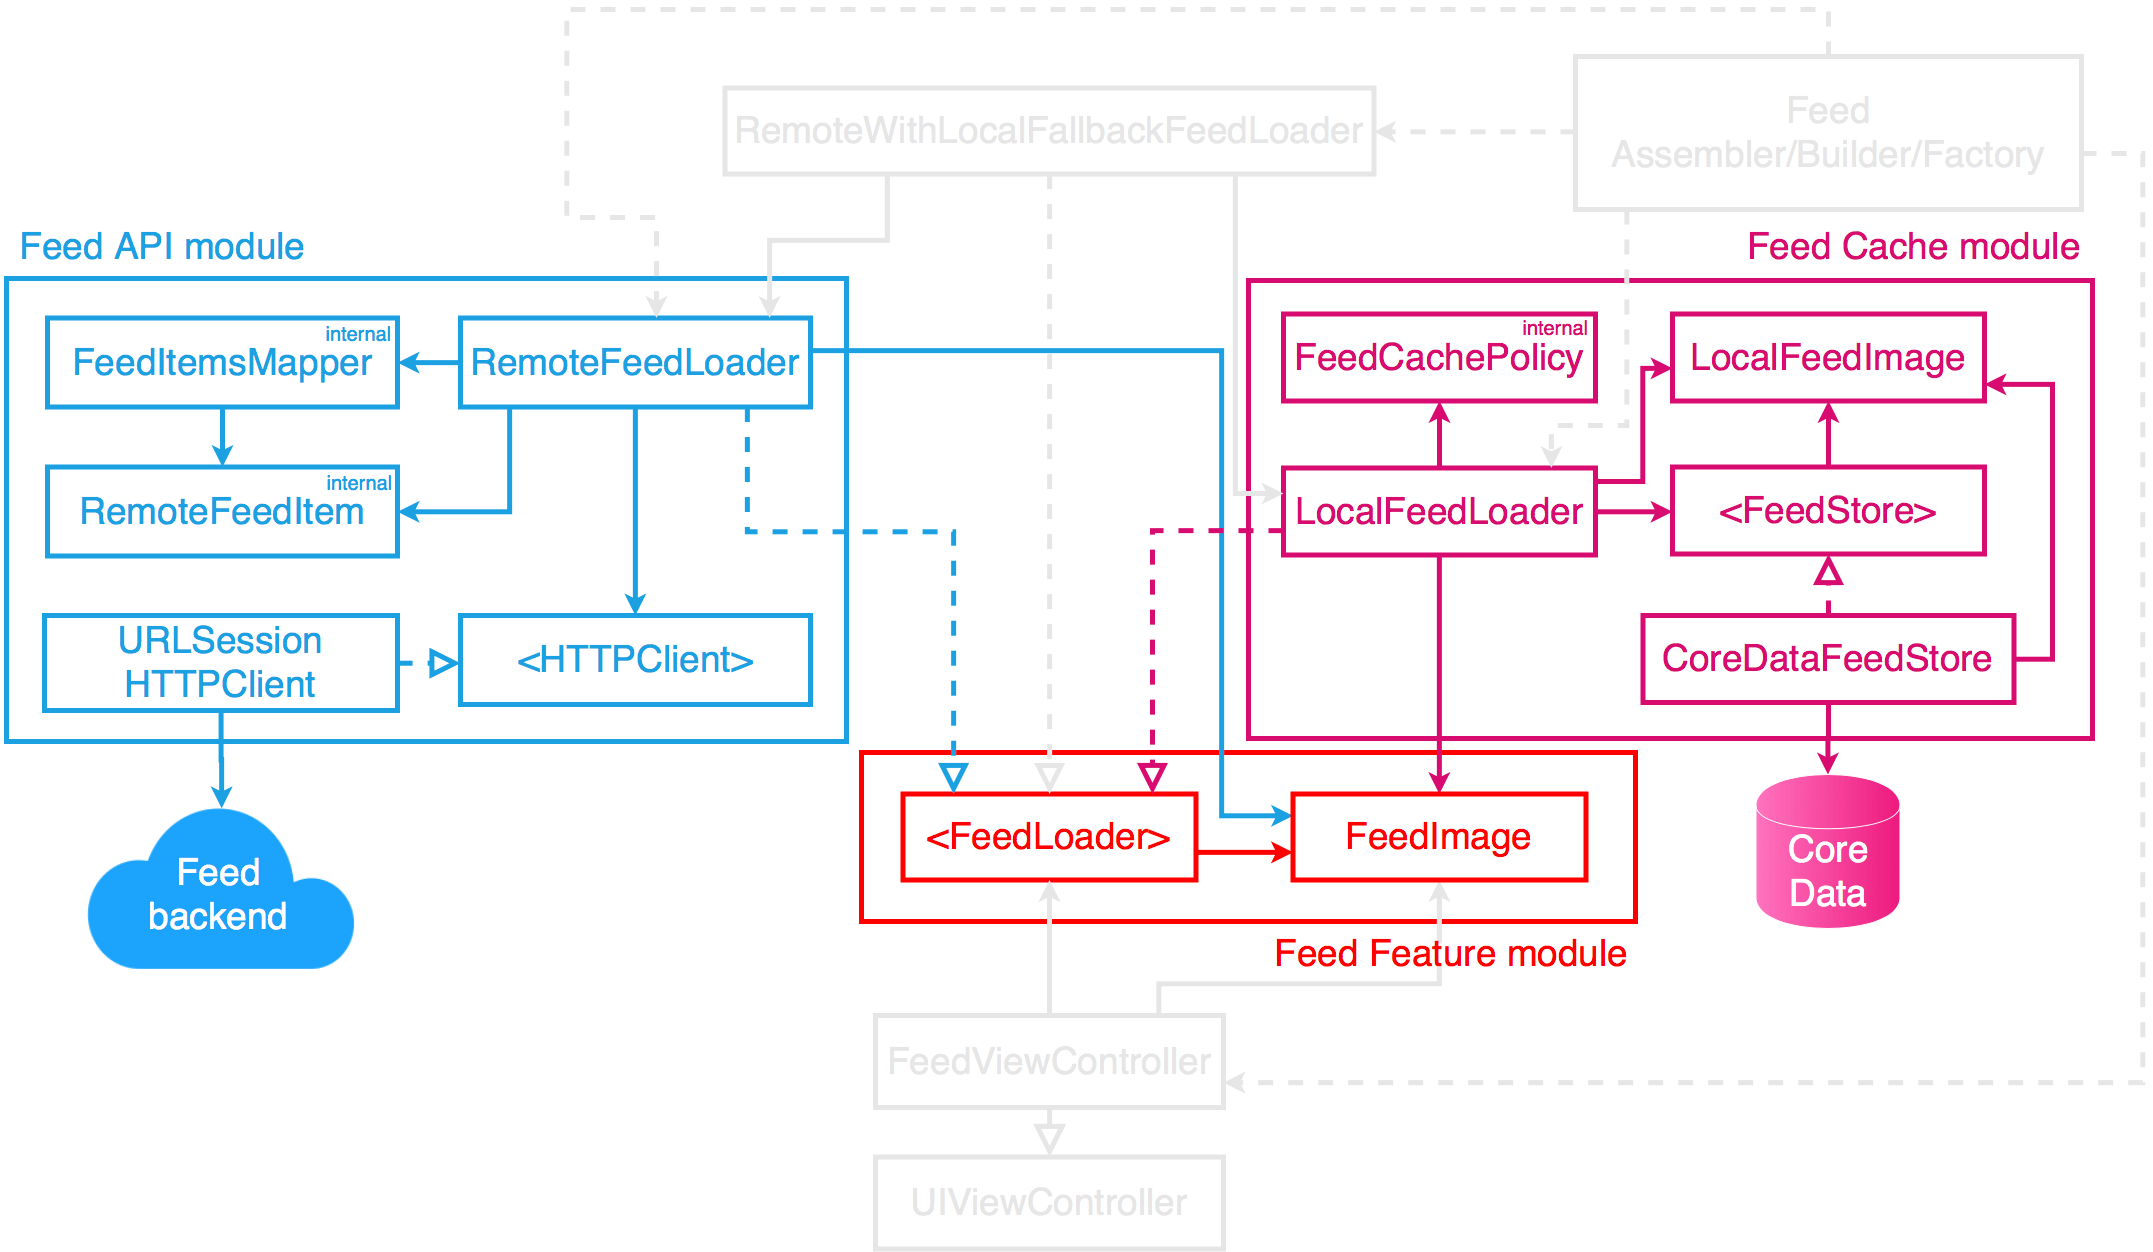
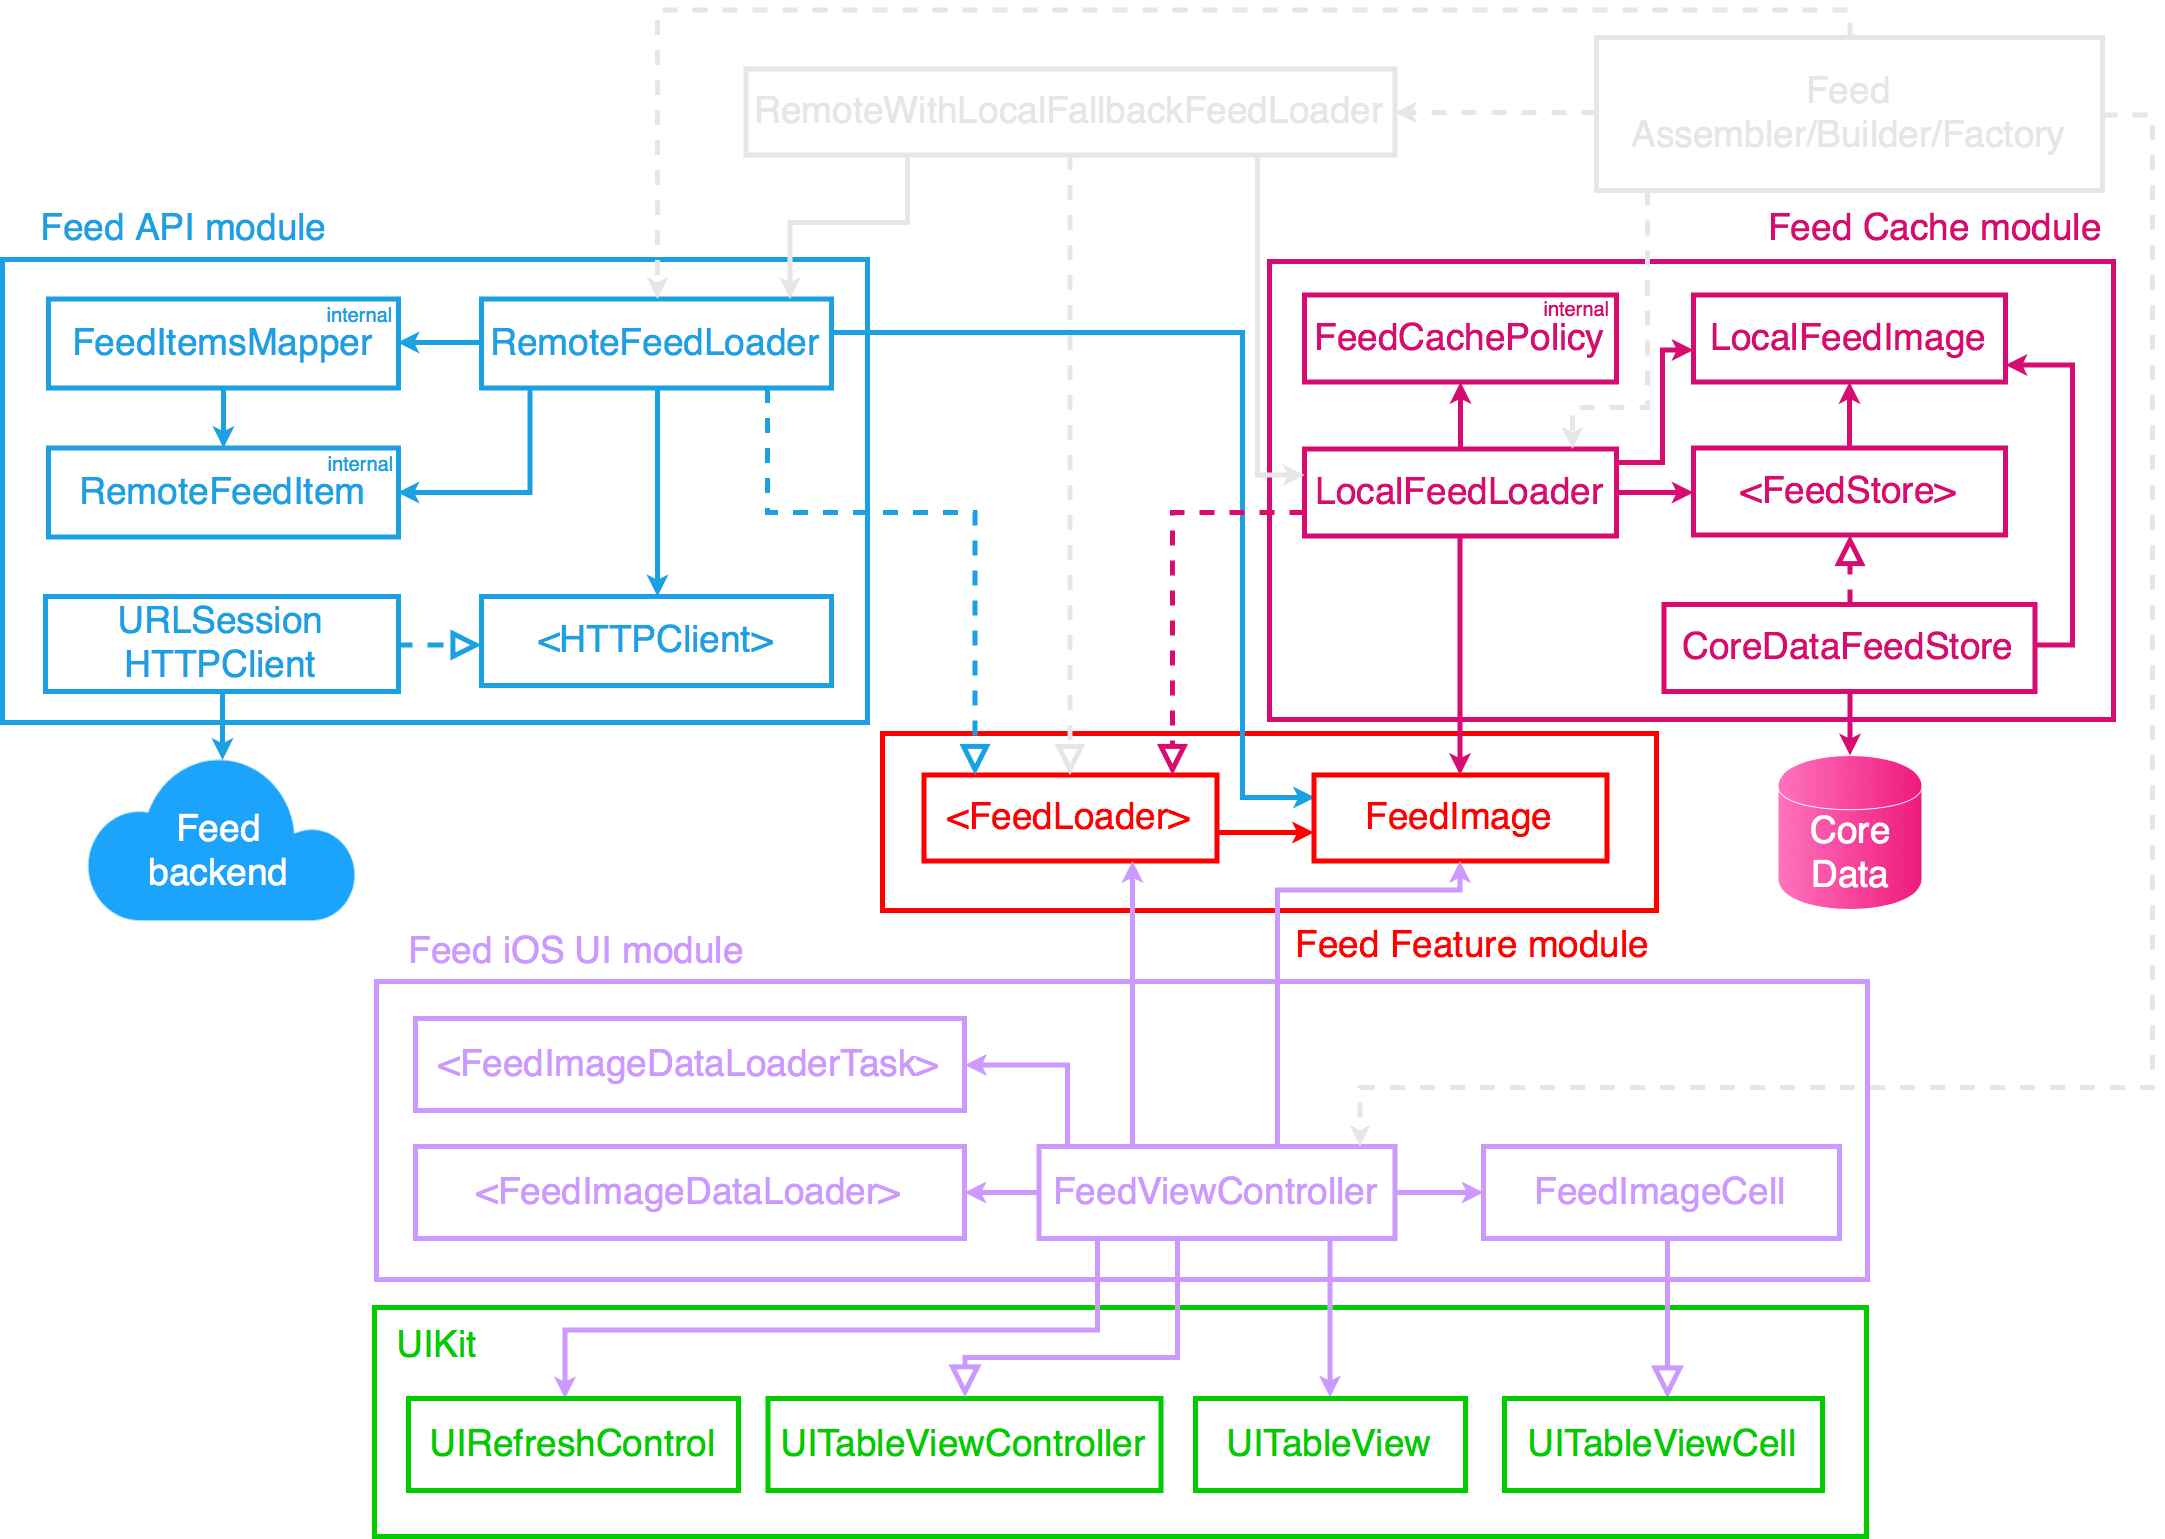
Re-formats code
* Also adds new architecture overview diagram.

Changed region(s): [[0.0, 0.0, 0.9958, 1.0], [0.4668, 0.2492, 0.4979, 0.3115]]

diff --git a/EssentialFeediOSTests/FeedViewControllerTests.swift b/EssentialFeediOSTests/FeedViewControllerTests.swift
@@ -180,95 +180,131 @@ class FeedViewControllerTests: XCTestCase {
         )
         XCTAssertEqual(view1?.renderedImage, imageData1, "Expected image for second view once second image loading completes successfully")
     }
-    
+
     func test_feedImageViewRetryButton_isVisibleOnImageURLLoadError() {
         let (sut, loader) = makeSUT()
-        
+
         sut.loadViewIfNeeded()
         loader.completeFeedLoading(with: [makeImage(), makeImage()])
-        
+
         let view0 = sut.simulateFeedImageViewVisible(at: 0)
         let view1 = sut.simulateFeedImageViewVisible(at: 1)
         XCTAssertEqual(view0?.isShowingRetryAction, false, "Expected no retry action for first view while loading first image")
         XCTAssertEqual(view1?.isShowingRetryAction, false, "Expected no retry action for second view while loading second image")
-        
+
         let imageData = UIImage.make(withColor: .red).pngData()!
         loader.completeImageLoading(with: imageData, at: 0)
-        XCTAssertEqual(view0?.isShowingRetryAction, false, "Expected no retry action for first view once first image loading completes successfully")
-        XCTAssertEqual(view1?.isShowingRetryAction, false, "Expected no retry action state change for second view once first image loading completes successfully")
-        
+        XCTAssertEqual(
+            view0?.isShowingRetryAction,
+            false,
+            "Expected no retry action for first view once first image loading completes successfully"
+        )
+        XCTAssertEqual(
+            view1?.isShowingRetryAction,
+            false,
+            "Expected no retry action state change for second view once first image loading completes successfully"
+        )
+
         loader.completeImageLoadingWithError(at: 1)
-        XCTAssertEqual(view0?.isShowingRetryAction, false, "Expected no retry action state change for first view once second image loading completes with error")
-        XCTAssertEqual(view1?.isShowingRetryAction, true, "Expected retry action for second view once second image loading completes with error")
+        XCTAssertEqual(
+            view0?.isShowingRetryAction,
+            false,
+            "Expected no retry action state change for first view once second image loading completes with error"
+        )
+        XCTAssertEqual(
+            view1?.isShowingRetryAction,
+            true,
+            "Expected retry action for second view once second image loading completes with error"
+        )
     }
-    
+
     func test_feedImageViewRetryButton_isVisibleOnInvalidImageData() {
         let (sut, loader) = makeSUT()
-        
+
         sut.loadViewIfNeeded()
         loader.completeFeedLoading(with: [makeImage()])
-        
+
         let view = sut.simulateFeedImageViewVisible(at: 0)
         XCTAssertEqual(view?.isShowingRetryAction, false, "Expected no retry action while loading image")
-        
+
         let invalidImageData = Data("invalid image data".utf8)
         loader.completeImageLoading(with: invalidImageData, at: 0)
         XCTAssertEqual(view?.isShowingRetryAction, true, "Expected retry action once image loading completes with invalid image data")
     }
-    
+
     func test_feedImageViewRetryAction_retriesImageLoad() {
         let image0 = makeImage(url: URL(string: "http://url-0.com")!)
         let image1 = makeImage(url: URL(string: "http://url-1.com")!)
         let (sut, loader) = makeSUT()
-        
+
         sut.loadViewIfNeeded()
         loader.completeFeedLoading(with: [image0, image1])
-        
+
         let view0 = sut.simulateFeedImageViewVisible(at: 0)
         let view1 = sut.simulateFeedImageViewVisible(at: 1)
         XCTAssertEqual(loader.loadedImageURLs, [image0.url, image1.url], "Expected two image URL request for the two visible views")
-        
+
         loader.completeImageLoadingWithError(at: 0)
         loader.completeImageLoadingWithError(at: 1)
         XCTAssertEqual(loader.loadedImageURLs, [image0.url, image1.url], "Expected only two image URL requests before retry action")
-        
+
         view0?.simulateRetryAction()
-        XCTAssertEqual(loader.loadedImageURLs, [image0.url, image1.url, image0.url], "Expected third imageURL request after first view retry action")
-        
+        XCTAssertEqual(
+            loader.loadedImageURLs,
+            [image0.url, image1.url, image0.url],
+            "Expected third imageURL request after first view retry action"
+        )
+
         view1?.simulateRetryAction()
-        XCTAssertEqual(loader.loadedImageURLs, [image0.url, image1.url, image0.url, image1.url], "Expected fourth imageURL request after second view retry action")
+        XCTAssertEqual(
+            loader.loadedImageURLs,
+            [image0.url, image1.url, image0.url, image1.url],
+            "Expected fourth imageURL request after second view retry action"
+        )
     }
-    
+
     func test_feedImageView_preloadsImageURLWhenNearVisible() {
         let image0 = makeImage(url: URL(string: "http://url-0.com")!)
         let image1 = makeImage(url: URL(string: "http://url-1.com")!)
         let (sut, loader) = makeSUT()
-        
+
         sut.loadViewIfNeeded()
         loader.completeFeedLoading(with: [image0, image1])
         XCTAssertEqual(loader.loadedImageURLs, [], "Expected no image URL requests until image is near visible")
-        
+
         sut.simulateFeedImageViewNearVisible(at: 0)
         XCTAssertEqual(loader.loadedImageURLs, [image0.url], "Expected first image URL request once first image is near visible")
-        
+
         sut.simulateFeedImageViewNearVisible(at: 1)
-        XCTAssertEqual(loader.loadedImageURLs, [image0.url, image1.url], "Expected second image URL request once second image is near visible")
+        XCTAssertEqual(
+            loader.loadedImageURLs,
+            [image0.url, image1.url],
+            "Expected second image URL request once second image is near visible"
+        )
     }
 
     func test_feedImageView_cancelsImageURLPreloadingWhenNotNearVisibleAnymore() {
         let image0 = makeImage(url: URL(string: "http://url-0.com")!)
         let image1 = makeImage(url: URL(string: "http://url-1.com")!)
         let (sut, loader) = makeSUT()
-        
+
         sut.loadViewIfNeeded()
         loader.completeFeedLoading(with: [image0, image1])
         XCTAssertEqual(loader.cancelledImageURLs, [], "Expected no cancelled image URL requests until image is not near visible")
-        
+
         sut.simulateFeedImageViewNotNearVisible(at: 0)
-        XCTAssertEqual(loader.cancelledImageURLs, [image0.url], "Expected first cancelled image URL request once first image is not near visible anymore")
-        
+        XCTAssertEqual(
+            loader.cancelledImageURLs,
+            [image0.url],
+            "Expected first cancelled image URL request once first image is not near visible anymore"
+        )
+
         sut.simulateFeedImageViewNotNearVisible(at: 1)
-        XCTAssertEqual(loader.cancelledImageURLs, [image0.url, image1.url], "Expected second cancelled image URL request once second image is not near visible anymore")
+        XCTAssertEqual(
+            loader.cancelledImageURLs,
+            [image0.url, image1.url],
+            "Expected second cancelled image URL request once second image is not near visible anymore"
+        )
     }
 
     // MARK: - Helpers
@@ -411,20 +447,20 @@ private extension FeedViewController {
 
         delegate?.tableView?(tableView, didEndDisplaying: view!, forRowAt: indexPath)
     }
-    
+
     func simulateFeedImageViewNearVisible(at index: Int) {
         let ds = tableView.prefetchDataSource
         let indexPath = IndexPath(row: index, section: feedImagesSection)
-        
+
         ds?.tableView(tableView, prefetchRowsAt: [indexPath])
     }
-    
+
     func simulateFeedImageViewNotNearVisible(at index: Int) {
         simulateFeedImageViewNearVisible(at: index)
-        
+
         let ds = tableView.prefetchDataSource
         let indexPath = IndexPath(row: index, section: feedImagesSection)
-        
+
         ds?.tableView?(tableView, cancelPrefetchingForRowsAt: [indexPath])
     }
 
@@ -452,7 +488,7 @@ private extension FeedImageCell {
     var isShowingImageLoadingIndicator: Bool { feedImageContainer.isShimmering }
     var renderedImage: Data? { feedImageView.image?.pngData() }
     var isShowingRetryAction: Bool { !feedImageRetryButton.isHidden }
-    
+
     func simulateRetryAction() {
         feedImageRetryButton.simulateTap()
     }

diff --git a/EssentialFeediOS/FeedViewController.swift b/EssentialFeediOS/FeedViewController.swift
@@ -76,18 +76,18 @@ public final class FeedViewController: UITableViewController, UITableViewDataSou
     override public func tableView(_: UITableView, didEndDisplaying _: UITableViewCell, forRowAt indexPath: IndexPath) {
         cancelTask(forRowAt: indexPath)
     }
-    
-    public func tableView(_ tableView: UITableView, prefetchRowsAt indexPaths: [IndexPath]) {
+
+    public func tableView(_: UITableView, prefetchRowsAt indexPaths: [IndexPath]) {
         indexPaths.forEach { indexPath in
             let cellModel = tableModel[indexPath.row]
             tasks[indexPath] = imageLoader?.loadImageData(from: cellModel.url) { _ in }
         }
     }
-    
-    public func tableView(_ tableView: UITableView, cancelPrefetchingForRowsAt indexPaths: [IndexPath]) {
+
+    public func tableView(_: UITableView, cancelPrefetchingForRowsAt indexPaths: [IndexPath]) {
         indexPaths.forEach(cancelTask)
     }
-    
+
     private func cancelTask(forRowAt indexPath: IndexPath) {
         tasks[indexPath]?.cancel()
         tasks[indexPath] = nil

diff --git a/EssentialFeediOS/FeedImageCell.swift b/EssentialFeediOS/FeedImageCell.swift
@@ -10,15 +10,15 @@ public final class FeedImageCell: UITableViewCell {
     public let descriptionLabel = UILabel()
     public let feedImageContainer = UIView()
     public let feedImageView = UIImageView()
-    
-    private(set) public lazy var feedImageRetryButton: UIButton = {
+
+    public private(set) lazy var feedImageRetryButton: UIButton = {
         let button = UIButton()
         button.addTarget(self, action: #selector(retryButtonTapped), for: .touchUpInside)
         return button
     }()
-    
+
     var onRetry: (() -> Void)?
-    
+
     @objc private func retryButtonTapped() {
         onRetry?()
     }
